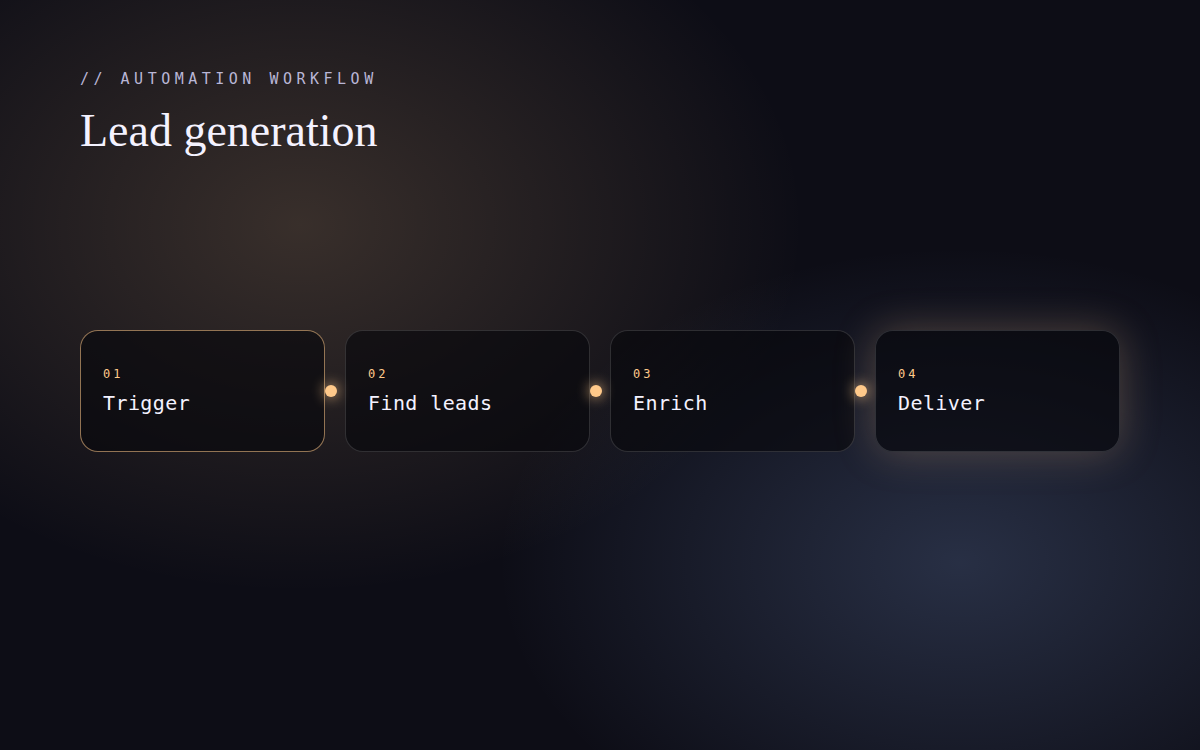
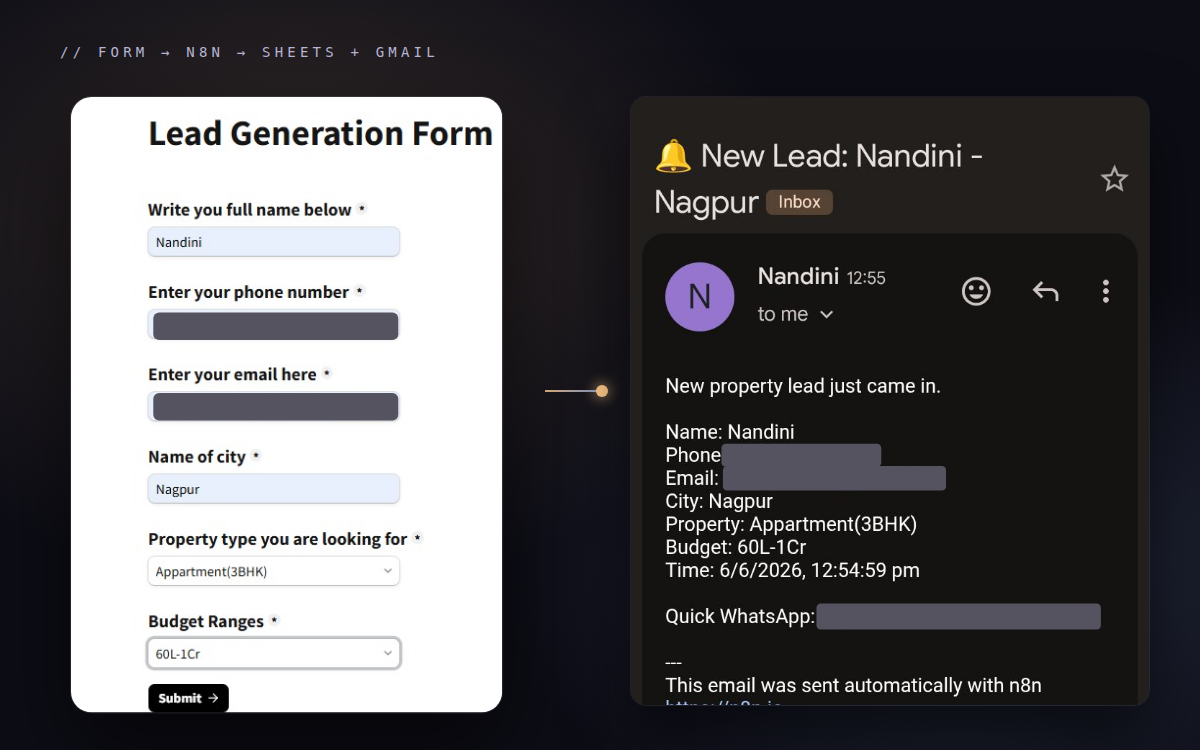
Projects: real details + redacted screenshots for both n8n automations
- Lead automation: form → n8n → Google Sheets + agent alert + buyer auto-reply
- Meeting notes automation: form → Groq summary → Notion database → email attendees
- Preview images built from the user's screenshots with phone/email/WhatsApp
  links covered by solid bars (attendee emails cropped out)

Claude-Session: https://claude.ai/code/session_01JjHLrJ4EqFe3dDfe5TWhW1

diff --git a/src/data/projects.ts b/src/data/projects.ts
@@ -25,18 +25,20 @@ export const projects: Project[] = [
   },
   {
     slug: "lead-generation",
-    title: "Lead generation automation",
-    blurb: "An automated workflow that finds and collects leads, so outreach starts with a ready-to-use list.", // TODO: refine
-    stack: ["n8n", "Automation"], // TODO: confirm tools (APIs, sheets/CRM, LLM…)
-    image: "/projects/lead-generation.png", // TODO: swap for a real workflow screenshot
+    title: "Real-estate lead automation",
+    blurb:
+      "A property enquiry form that instantly logs each lead to Google Sheets, emails the agent the details with a one-tap WhatsApp link, and auto-replies to the buyer promising a call within 30 minutes.",
+    stack: ["n8n", "Webhooks", "Google Sheets", "Gmail"],
+    image: "/projects/lead-generation.png",
     note: "Private workflow",
   },
   {
     slug: "meeting-transcript",
-    title: "Meeting transcript automation",
-    blurb: "Turns meeting recordings into clean, shareable transcripts — no manual note-taking.", // TODO: refine
-    stack: ["n8n", "Speech-to-text"], // TODO: confirm tools
-    image: "/projects/meeting-transcript.png", // TODO: swap for a real workflow screenshot
+    title: "Meeting notes automation",
+    blurb:
+      "Upload a meeting's notes and attendee list — an LLM (Groq) summarises them, the summary is saved to a Notion database, and every attendee gets it by email automatically.",
+    stack: ["n8n", "Groq LLM", "Notion API", "Gmail"],
+    image: "/projects/meeting-transcript.png",
     note: "Private workflow",
   },
 ];
